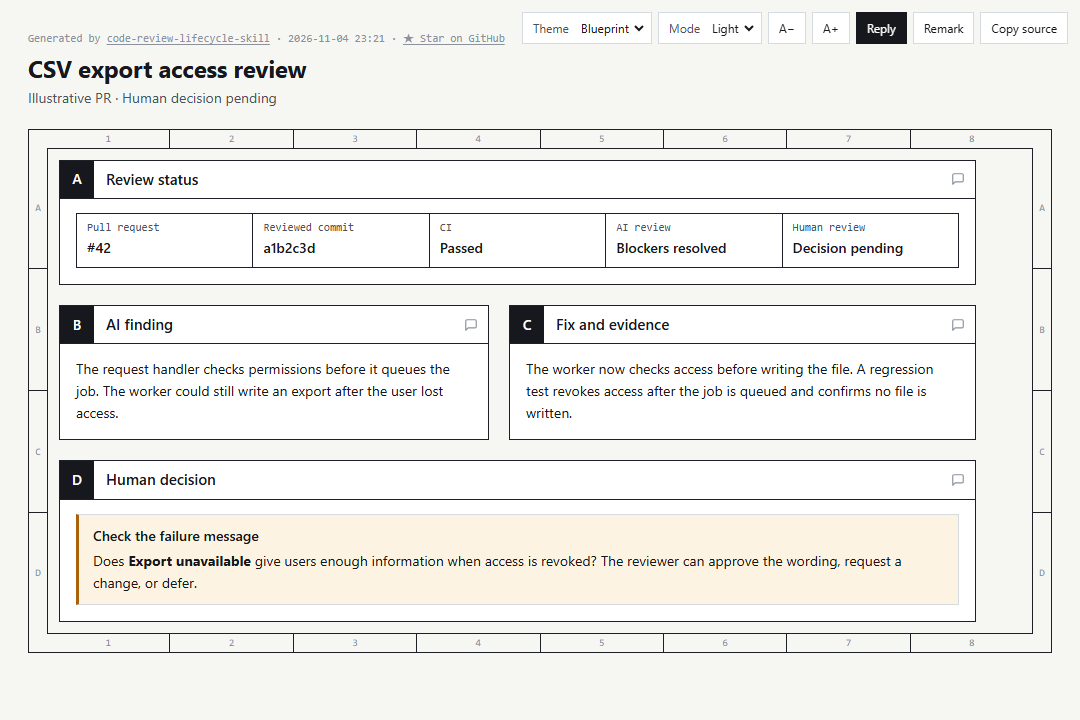
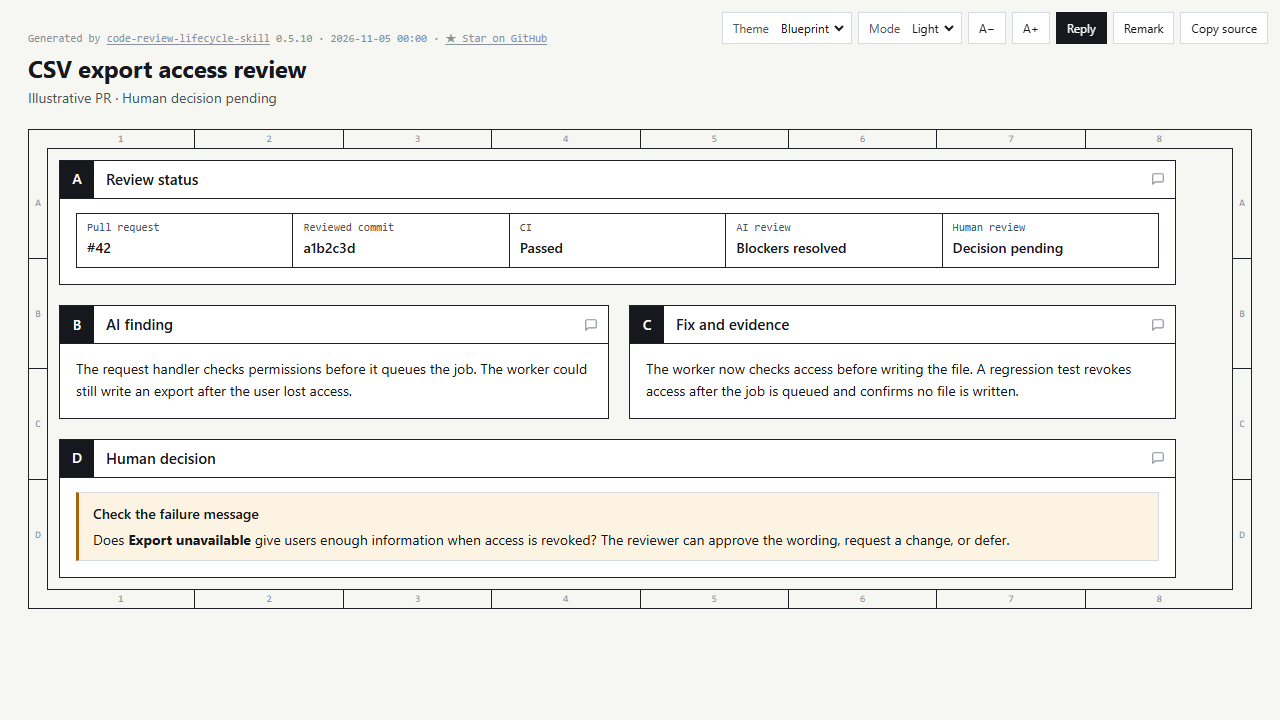
Resolve review findings and verify renderer integrity in CI

diff --git a/scripts/test_render_progress.py b/scripts/test_render_progress.py
@@ -1,5 +1,6 @@
 """Check progress-state invariants that prevent misleading user actions."""
 from copy import deepcopy
+from hashlib import sha256
 import json
 import os
 from pathlib import Path
@@ -18,6 +19,8 @@ EXAMPLE = Path(__file__).resolve().parents[1] / "assets/progress.example.json"
 SHOWCASE = Path(__file__).resolve().parents[1] / "docs/showcase/export-review.md"
 SCRIPTS = Path(__file__).resolve().parent
 PROJECT_URL = "https://github.com/HoeTee/code-review-lifecycle-skill"
+RENDERER = SCRIPTS / "vendor/answer-me-with-html/am.mjs"
[1 lines of base64/hex data omitted]
 
 
 class ProgressStateTests(unittest.TestCase):
@@ -165,25 +168,73 @@ class ProgressStateTests(unittest.TestCase):
             page = output.read_text(encoding="utf-8")
             self.assertTrue('<meta name="generator" content="Answer me with HTML' in page, "Expected the bundled renderer")
             self.assertTrue(self.state["project"] in page, "The rendered progress page is missing the project name")
+            evidence_panel = page.split('id="panel-D"', 1)[1].split("</section>", 1)[0]
+            self.assertIn(self.state["goal"]["criteria"][0]["evidence"], evidence_panel)
 
     @unittest.skipUnless(shutil.which("node"), "Node.js is needed for the bundled renderer")
-    def test_readme_example_links_to_this_project(self):
+    def test_progress_cli_displays_review_evidence_and_its_link(self):
         with TemporaryDirectory() as directory:
-            output = Path(directory) / "review.html"
+            workdir = Path(directory)
+            state_path = workdir / "state.json"
+            output = workdir / "progress.html"
+            criterion = self.state["goal"]["criteria"][0]
+            criterion["evidence_href"] = "https://example.com/review-evidence"
+            state_path.write_text(json.dumps(self.state), encoding="utf-8")
             self.run_render(
-                "node", str(SCRIPTS / "render_html.mjs"), "render", str(SHOWCASE),
-                "-o", str(output), "--no-open",
-                workdir=Path(directory),
+                sys.executable, "-B", str(SCRIPTS / "render_progress.py"),
+                str(state_path), "--output", str(output), workdir=workdir,
+            )
+            page = output.read_text(encoding="utf-8")
+            evidence_panel = page.split('id="panel-D"', 1)[1].split("</section>", 1)[0]
+            self.assertIn(criterion["title"], evidence_panel)
+            self.assertIn(criterion["evidence"], evidence_panel)
+            self.assertIn('href="https://example.com/review-evidence"', evidence_panel)
+
+    @unittest.skipUnless(shutil.which("node"), "Node.js is needed for the bundled renderer")
+    def test_readme_example_keeps_project_links_after_a_panel_patch(self):
+        with TemporaryDirectory() as directory:
+            workdir = Path(directory)
+            output = workdir / "review.html"
+            cli = ("node", str(SCRIPTS / "render_html.mjs"))
+            self.run_render(
+                *cli, "render", str(SHOWCASE), "-o", str(output), "--no-open", workdir=workdir,
             )
             page = output.read_text(encoding="utf-8")
             self.assertTrue("<title>CSV export access review</title>" in page, "Expected the README example title")
-            credit = page.split('<p class="am-colophon">', 1)[1].split("</p>", 1)[0]
-            self.assertIn(">code-review-lifecycle-skill</a>", credit)
-            self.assertIn(">★ Star on GitHub</a>", credit)
-            self.assertEqual(credit.count(f'href="{PROJECT_URL}"'), 2)
+            self.assert_project_credit(page)
+
+            panel = workdir / "decision.md"
+            panel.write_text("## D Human decision {span=2}\n\nThe reviewer approved the failure message.\n", encoding="utf-8")
+            self.run_render(
+                *cli, "patch", str(output), "--panel", "D", "--from", str(panel), "--no-open",
+                workdir=workdir,
+            )
+            page = output.read_text(encoding="utf-8")
+            visible = page.split('<textarea id="am-source"', 1)[0]
+            self.assertIn("The reviewer approved the failure message.", visible)
+            self.assertNotIn("Check the failure message", visible)
+            self.assert_project_credit(page)
+
+    def assert_project_credit(self, page: str):
+        credit = page.split('<p class="am-colophon">', 1)[1].split("</p>", 1)[0]
+        self.assertIn(">code-review-lifecycle-skill</a>", credit)
+        self.assertIn(">★ Star on GitHub</a>", credit)
+        self.assertEqual(credit.count(f'href="{PROJECT_URL}"'), 2)
+
+    def test_renderer_bundle_matches_upstream_except_for_project_credit(self):
+        bundle = RENDERER.read_bytes()
+        branding = (
+            (f'  const repo = "{PROJECT_URL}";'.encode("utf-8"),
+             b'  const repo = "https://github.com/QingYunA/answer-me-with-html";'),
+            (b'>code-review-lifecycle-skill</a>`;', b'>Answer me with HTML</a>`;'),
+        )
+        for project_text, upstream_text in branding:
+            self.assertEqual(bundle.count(project_text), 1)
+            bundle = bundle.replace(project_text, upstream_text)
+        self.assertEqual(sha256(bundle).hexdigest(), UPSTREAM_RENDERER_SHA256)
 
     def test_renderer_bundle_contains_the_font(self):
-        bundle = (SCRIPTS / "vendor/answer-me-with-html/am.mjs").read_text(encoding="utf-8")
+        bundle = RENDERER.read_text(encoding="utf-8")
         self.assertTrue(
             'font-family: "Bangers";' in bundle and "data:font/woff2;base64," in bundle,
             "The renderer must include the bundled Bangers font",

diff --git a/scripts/answer_progress.py b/scripts/answer_progress.py
@@ -121,6 +121,18 @@ def build_draft(state: dict, state_path: Path) -> str:
         lines.extend([link("打开交付包", delivery), ""])
     elif evidence:
         lines.extend(["交付依据：" + text(evidence), ""])
+    for criterion in state["goal"]["criteria"]:
+        if criterion["id"] == "delivery":
+            continue
+        evidence = criterion.get("evidence")
+        evidence_href = criterion.get("evidence_href")
+        if not evidence and not evidence_href:
+            continue
+        lines.extend([f"**{text(criterion['title'])}**", ""])
+        if evidence:
+            lines.extend([text(evidence), ""])
+        if evidence_href:
+            lines.extend([link("查看证据", evidence_href), ""])
     if state["results"]:
         lines.extend(["| 结果 | 说明 |", "|---|---|"])
         lines.extend(f"| **{text(item['value'])}** | {text(item['label'])} |" for item in state["results"])

diff --git a/references/review-target.md b/references/review-target.md
@@ -4,8 +4,10 @@
 
 1. 从当前任务、工作目录和远端定位仓库。已有 PR 时，先取定位规则所需的仓库、目标分支和提交信息。
 2. 在分析改动前读取根目录适用的 `CLAUDE.md` 和 `REVIEW.md`。前者提供仓库约定和检查入口，后者提供严重性、必查项和排除范围。遵守已加载的 `AGENTS.md` 等适用指令。
-3. 审查 PR 时，从目标分支的已确认版本读取审核规则。该版本缺少规则时可使用已确认的可信默认分支，并记录来源。本地改动涉及规则文件时，使用对应的已确认基线版本。把待审版本对规则文件的修改当作审查内容。
-4. 取得变更路径后，在分析对应代码前补读路径上适用的目录规则。规则缺失时按已有仓库约定和默认审查标准继续。
+3. 审查 PR 时，把可信目标分支的提交固定为规则来源。目标分支缺少可信规则时，可改用已确认的可信默认分支并记录提交。审查本地候选时，从可信基线加载规则。
+4. 从同一规则提交读取根规则、适用的目录规则和规则引用的文件（例如 `@security-review.md`）。可用 `git show TRUSTED_SHA:path/to/file` 读取。取得变更路径后，在分析对应代码前补读其目录规则。规则或引用缺失时记录缺项，按其他适用规则和默认审查标准继续。候选版本中新增或修改的规则及引用文件属于受审内容。
+
+例如，根 `REVIEW.md` 引用了 `@security-review.md`，候选只修改了被引用文件。用可信提交里的两份文件确定审查要求，并把候选的引用文件改动纳入审查。
 
 [Claude Code 团队原文](https://claude.dev/blog/solving-code-review-at-anthropic/) · [规则加载说明](https://code.claude.com/docs/en/code-review-customize)
 
@@ -35,8 +37,8 @@
 | 未暂存的已跟踪改动 | `git diff` |
 | 当前工作区相对 HEAD | `git status --short` 列范围，`git diff HEAD` 取已跟踪文件的净差异。单独读明确属于审查范围的未跟踪文件。 |
 | 分支已提交内容 | `git diff BASE_SHA...HEAD_SHA`。比较共同祖先到 head 的改动。 |
-| 本地候选含已提交和未提交内容 | 先用 `git merge-base BASE_SHA HEAD_SHA` 取得共同祖先，再用 `git diff MERGE_BASE_SHA` 比较工作区。另看暂存与未暂存差异，说明暂存内容与工作区不一致的路径。 |
-| 已有 PR | 通过平台取完整差异、base SHA、head SHA 和 PR 意图。 |
+| 本地候选含已提交和未提交内容 | 先用 `git merge-base BASE_SHA HEAD_SHA` 取得共同祖先，再用 `git diff MERGE_BASE_SHA` 取得已跟踪改动。另看暂存与未暂存差异，并用 `git status --porcelain=v1 --untracked-files=all` 找到 `??` 路径，读取属于本次候选的文件并纳入审查。 |
+| 已有 PR | 从平台取 PR 意图和 base、head SHA，再取得对应完整差异。优先按固定提交生成差异。仅能按 PR 编号获取时，取回后复核两个 SHA，变化时重新取证。 |
 
 PR 记录仓库、PR、base 与 head。未提交的候选记录基线、`HEAD`、审查的文件范围和取证时间。复审前重新取得差异，确认候选内容是否变化。CI 结果要能关联到受审版本，远端检查不覆盖本地额外改动。测试模拟合并结果时，记录它与当前 base 和 head 的对应关系。
 

diff --git a/references/validation-scenarios.md b/references/validation-scenarios.md
@@ -7,13 +7,16 @@
 | 已绑定 PR，同时本地另有改动 | 审远端 PR head，另列本地额外改动。 |
 | 未绑定 PR，本地候选比远端新 | 审本地候选，远端 CI 标明它实际覆盖的版本。 |
 | 本地既有暂存也有未暂存内容 | 区分工作区快照与下一次提交的内容，记录审查范围。 |
+| 已提交代码导入尚未跟踪的新文件 | 从状态中的 `??` 识别该文件，读取并纳入混合候选审查。 |
 | PR 修改 REVIEW.md 或适用的目录规则 | 先加载可信基线规则，把规则修改作为差异审核。 |
+| 根 REVIEW.md 未变，候选修改它引用的规则 | 从同一可信提交读取根文件和引用文件，把修改作为差异审核。 |
+| 两次查询之间 PR 的 base 或 head 变化 | 用固定 SHA 生成差异，或丢弃按编号取得的差异并重新取证。 |
 | GitHub 或 Gitee 只读权限 | 取得可用 PR、检查和讨论证据，缺项明确报告。 |
 | 第三轮仍有阻断 | 保留计数，停止自动返修，给有依据的下一步。 |
 | 新提交影响已审核结论 | 重新检查受影响的发现和验证结果，结论绑定新版本。 |
 | 需要人工决定 | 显示关键代码、证据、待决定项、对应 PR 和 commit。 |
 | 三个 Agent 安装 | 共用一个入口，能调用随包渲染器。 |
-| 新旧进度快照 | 都能渲染，证据与原记录时间一致。 |
+| 新旧进度快照 | 都能渲染，报告显示审查目标的证据与链接，并保留检查原记录时间。 |
 | 生成或局部更新 HTML | 页首项目名和 Star on GitHub 指向本项目。 |
 
 验证记录应包括输入、实际执行和覆盖范围。结构与链接检查、场景走查和真实 Agent 执行分别报告。

diff --git a/references/platforms/github.md b/references/platforms/github.md
@@ -81,11 +81,18 @@ HOST、仓库和目标分支由项目事实确定；GitHub.com 的 HOST 是 gith
 
 ## 读取 PR、检查与意见
 
-查询与审查：
+先读取 PR 的目标分支、base 和 head。核对本地 Git 仓库与 PR 的目标仓库一致后，用两个固定提交生成完整差异：
 
 ```sh
 gh pr view NUMBER --repo R --json number,url,state,baseRefName,baseRefOid,headRefName,headRefOid,reviewDecision,statusCheckRollup
-gh pr diff NUMBER --repo R
+git diff --no-ext-diff --no-textconv BASE_SHA...HEAD_SHA --
+```
+
+如果本地缺少对象，从已核对的目标远端获取目标分支和 `refs/pull/NUMBER/head`，再确认原 base 和 head 对象可用。若只能按编号取得平台差异，记录取证前的 base 和 head，执行 `gh pr diff NUMBER --repo R` 后立即再次查询两者。任一 SHA 变化时丢弃该差异，用新 SHA 重新取证。比如作者在查询后推送了新提交，应重新获取差异及对应检查。
+
+读取检查和意见：
+
+```sh
 gh pr checks NUMBER --repo R --required
 gh run view RUN_ID --repo R --log-failed
 gh pr view NUMBER --repo R --comments

diff --git a/README.md b/README.md
@@ -86,7 +86,7 @@ The skill instructions, templates, and reference guides are mainly in Chinese. T
 python scripts/render_progress.py assets/progress.example.json --output progress-example.html
 ```
 
-Run `python -B -m unittest discover -s scripts -v` to test the progress state and HTML rendering locally. GitHub Actions runs the same suite for pull requests and pushes to `main`.
+Run `python -B -m unittest discover -s scripts -v` to check progress evidence, HTML rendering and panel updates, and the integrity of the bundled renderer. GitHub Actions runs the same suite for pull requests and pushes to `main`.
 
 ## License
 
